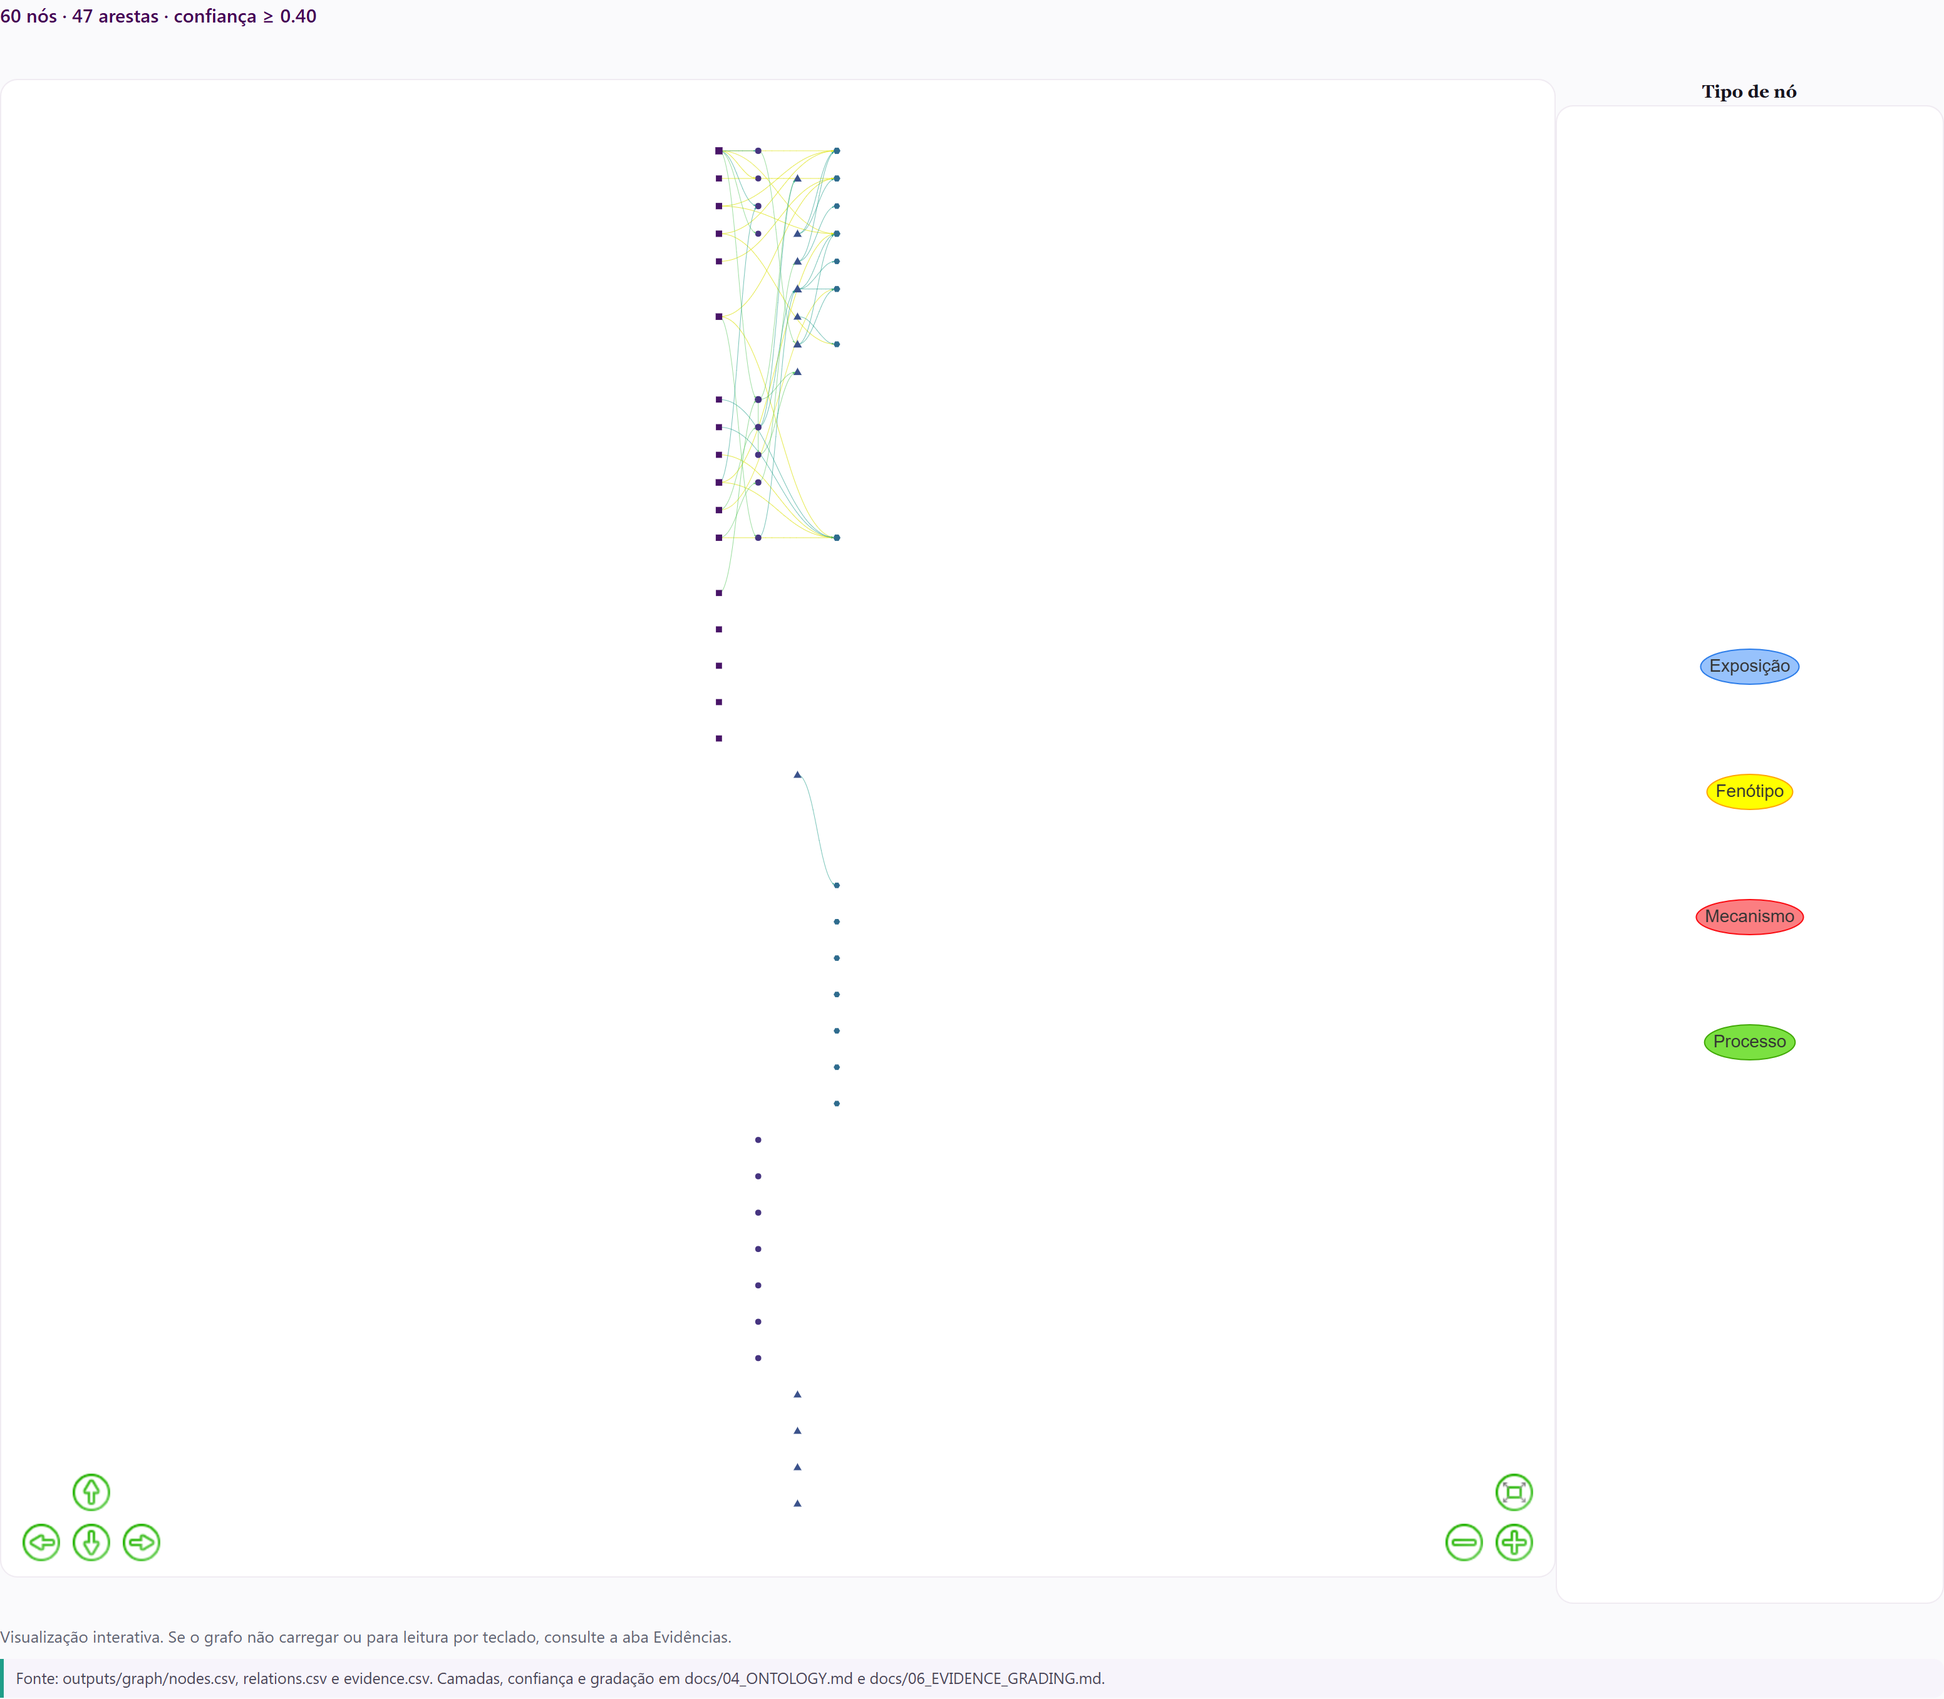
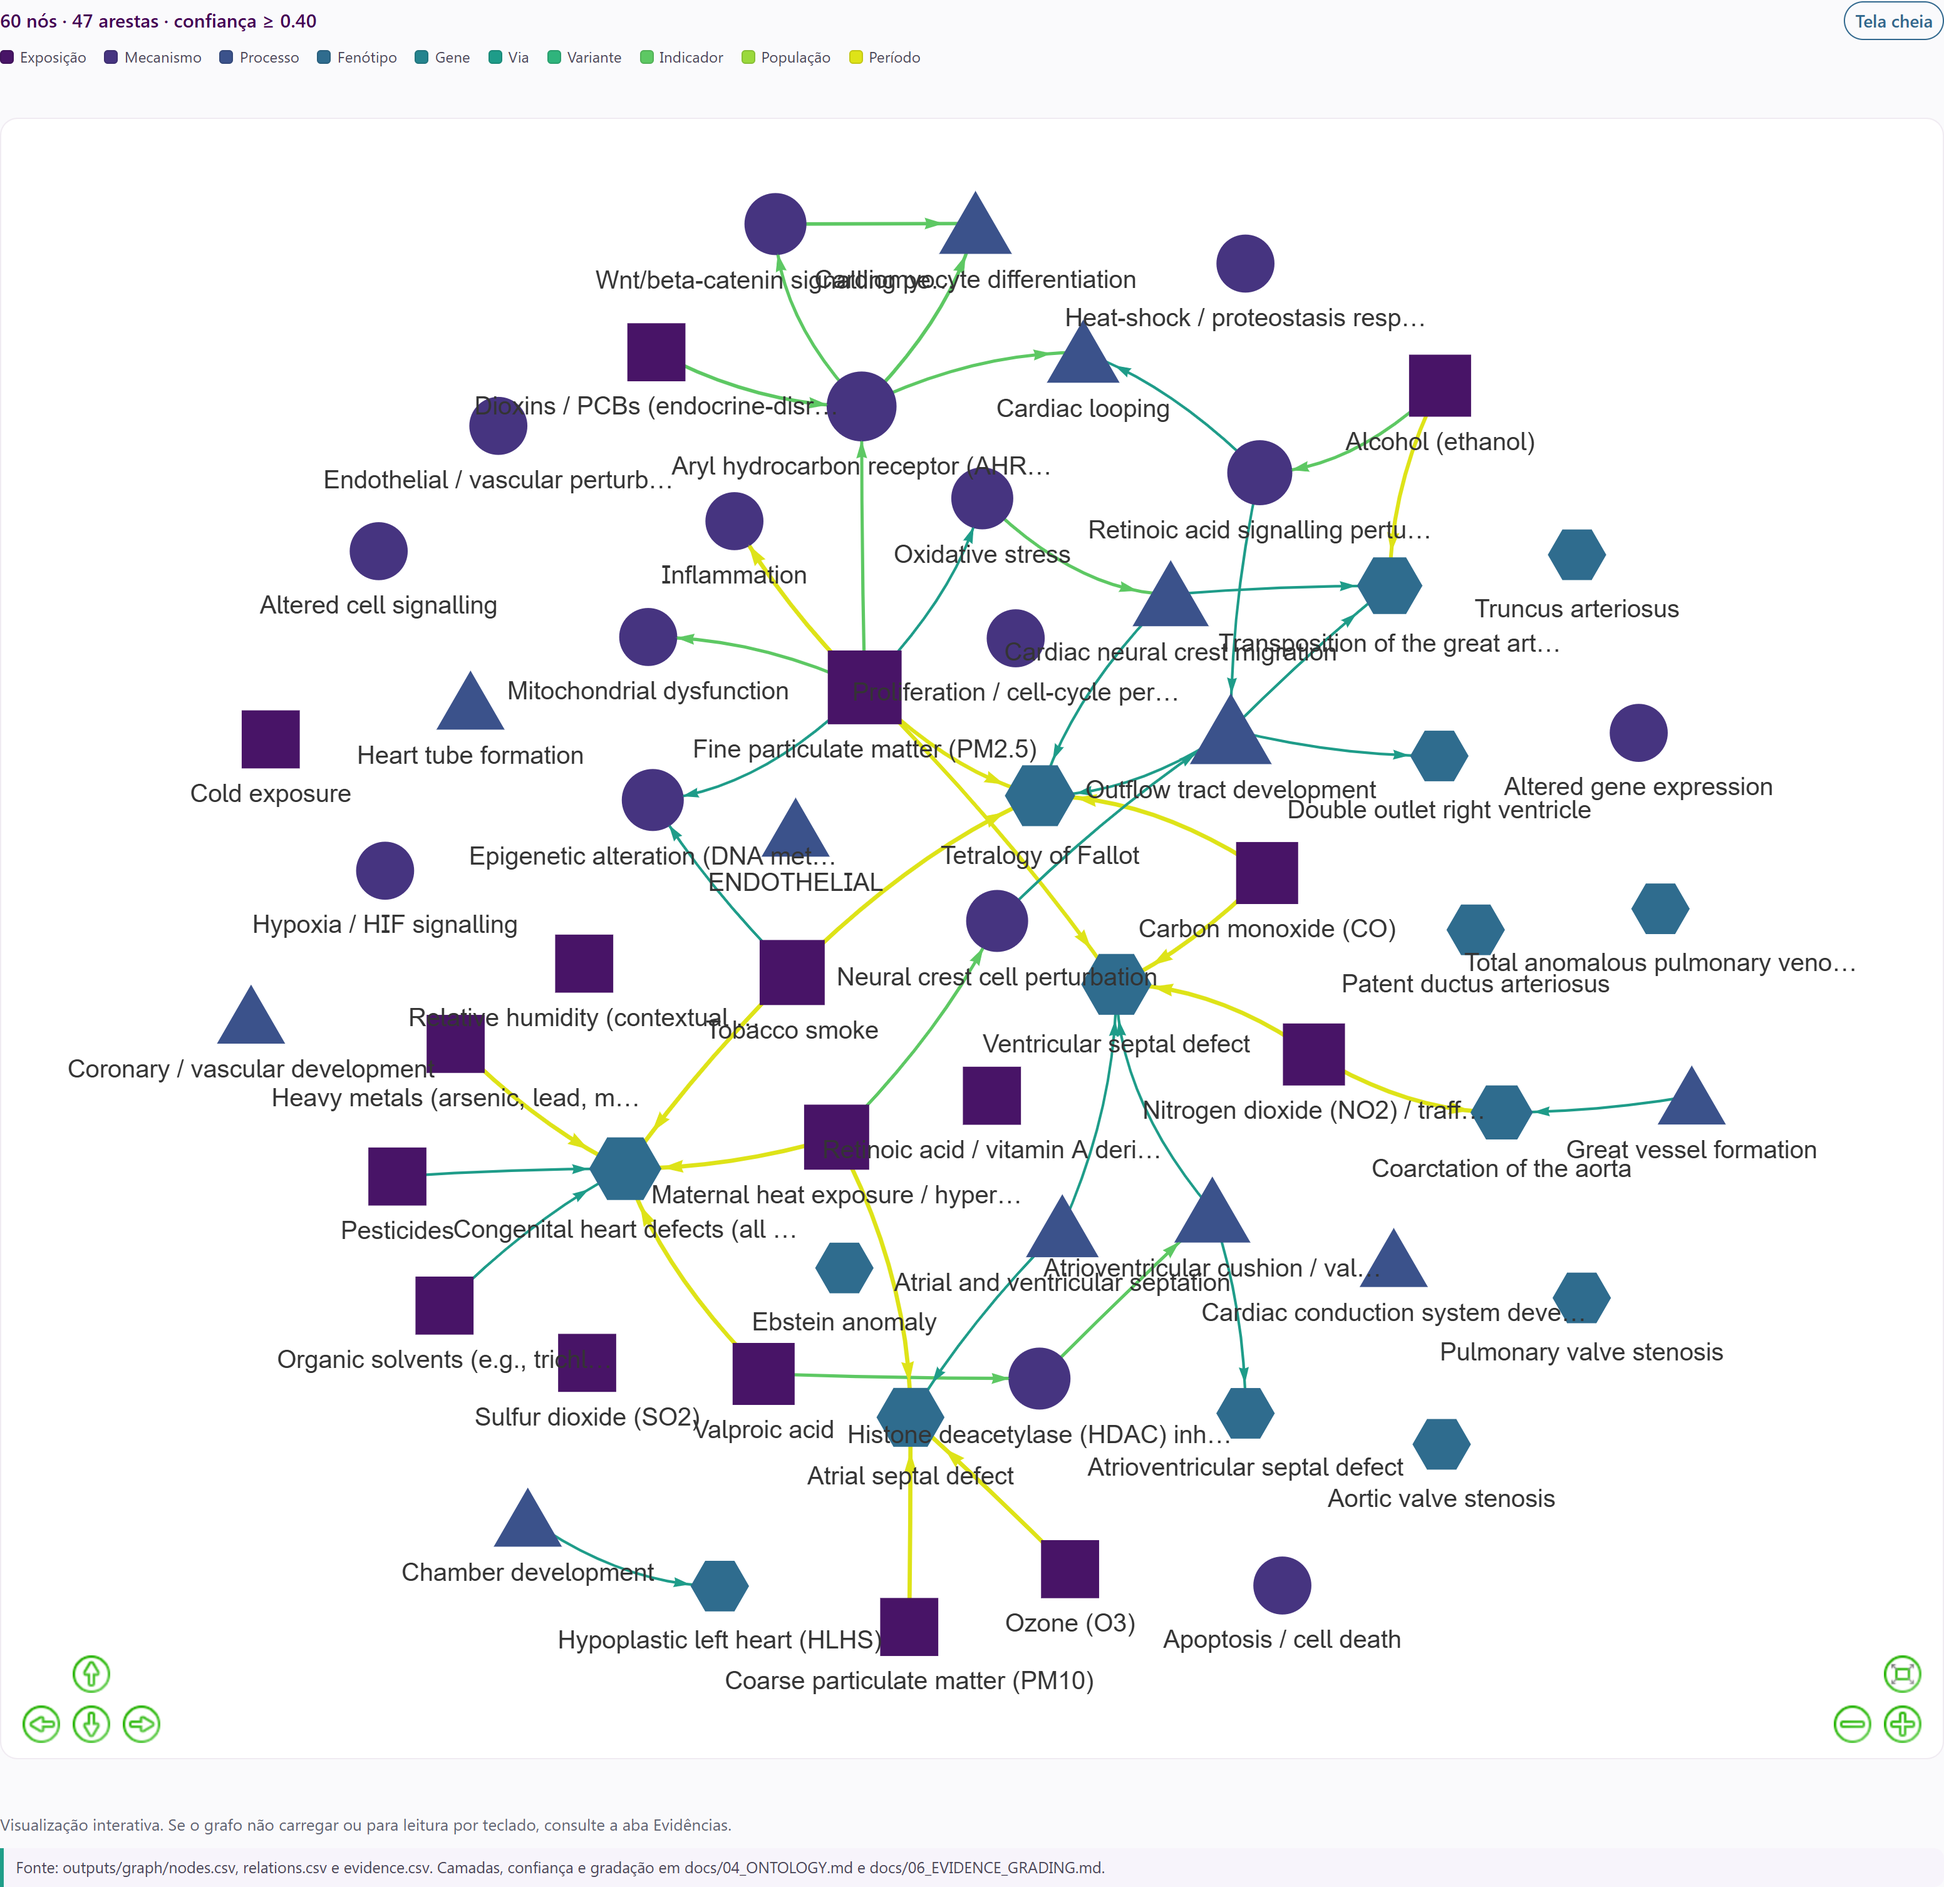
Improve graph legibility and add Letícia ORCID

diff --git a/app/www/styles.css b/app/www/styles.css
@@ -112,14 +112,42 @@ table.dataTable thead th { color: var(--v1); border-bottom: 1px solid rgba(68,1,
   font-size: clamp(.95rem, 1.6vw, 1.15rem);
 }
 .figure-head { font-weight: 600; color: var(--v0); margin: 0 0 .45rem; font-size: .95rem; }
+.graph-toolbar {
+  display: flex; align-items: center; justify-content: space-between;
+  gap: .75rem; margin-bottom: .35rem;
+}
+.graph-toolbar .figure-head { margin-bottom: 0; }
+.graph-fullscreen { white-space: nowrap; }
+.graph-legend {
+  display: flex; flex-wrap: wrap; align-items: center;
+  gap: .25rem .9rem; margin: 0 0 .55rem;
+  color: #4B4658; font-size: .76rem; line-height: 1.25;
+}
+.graph-legend-item { display: inline-flex; align-items: center; gap: .32rem; }
+.graph-legend-swatch {
+  display: inline-block; width: .68rem; height: .68rem;
+  border-radius: 3px; flex: 0 0 auto;
+  border: 1px solid rgba(0,0,0,.12);
+}
 .figure-canvas { width: 100%; min-width: 0; }
-.figure-canvas.graph-canvas { height: clamp(900px, 105vh, 1500px); }
+.figure-canvas.graph-canvas { height: clamp(1000px, 115vh, 1700px); }
 .figure-canvas.chart-canvas { height: clamp(400px, 50vh, 640px); }
 .figure-canvas.chart-canvas-wide { height: clamp(460px, 58vh, 760px); }
 
 @media (max-width: 768px) {
-  .figure-canvas.graph-canvas { height: 72vh; min-height: 520px; }
+  .figure-canvas.graph-canvas { height: 78vh; min-height: 560px; }
   .figure-canvas.chart-canvas-wide { height: 60vh; min-height: 380px; }
+  .graph-legend { font-size: .7rem; gap: .2rem .65rem; }
+}
+
+/* Fullscreen graph: the canvas gets the whole viewport and vis.js is resized. */
+.figure-block:fullscreen,
+.figure-block:-webkit-full-screen {
+  background: #FAFAFC; padding: 1rem; overflow: auto;
+}
+.figure-block:fullscreen .figure-canvas.graph-canvas,
+.figure-block:-webkit-full-screen .figure-canvas.graph-canvas {
+  height: calc(100vh - 165px) !important; min-height: 0 !important;
 }
 .figure-canvas > .plotly,
 .figure-canvas > .shiny-plot-output,

diff --git a/scripts/app/02_fair_metadata.py b/scripts/app/02_fair_metadata.py
@@ -73,7 +73,7 @@ datapackage = {
     "licenses": [{"name": "MIT", "path": "https://opensource.org/licenses/MIT", "title": "Código sob MIT; dados de terceiros mantêm suas licenças"}],
     "contributors": [
         {"title": "Ryan de Paulo Santos", "role": "author", "path": "https://orcid.org/0009-0005-6770-2001"},
-        {"title": "Letícia", "role": "author", "path": "http://lattes.cnpq.br/4004634244195808"},
+        {"title": "Letícia Maria Dias Freitas", "role": "author", "path": "https://orcid.org/0009-0009-9930-9588"},
     ],
     "keywords": ["congenital heart defects", "environmental exposure", "knowledge graph", "cardiogenesis", "Brazil", "FAIR"],
     "sources": [
@@ -104,7 +104,7 @@ dcat = {
     "modified": "2026-10-31",
     "creator": [
         {"@type": "Person", "name": "Ryan de Paulo Santos", "identifier": "https://orcid.org/0009-0005-6770-2001"},
-        {"@type": "Person", "name": "Letícia", "identifier": "http://lattes.cnpq.br/4004634244195808"},
+        {"@type": "Person", "name": "Letícia Maria Dias Freitas", "identifier": "https://orcid.org/0009-0009-9930-9588"},
     ],
     "publisher": {"@type": "Organization", "name": "GraphAmbiCardio study team"},
     "contactPoint": {"@type": "ContactPoint", "email": "ryan.paulo@gsuite.iff.edu.br"},

diff --git a/outputs/figures/site/README.md b/outputs/figures/site/README.md
@@ -1,6 +1,6 @@
 # Figuras do site GraphAmbiCardio
 
-Gerado: 2026-11-01T02:29:19Z
+Gerado: 2026-11-01T13:52:41Z
 
 Cada figura abaixo traz a fonte, o período e a nota de interpretação. Os dados usados estão em `data/`; o manifesto com SHA-256 está em `manifest.json`.
 
@@ -12,7 +12,7 @@ Cada figura abaixo traz a fonte, o período e a nota de interpretação. Os dado
 **Período:** 2010–2025  
 **Nota:** Camadas/confiança em docs/04_ONTOLOGY.md e docs/06_EVIDENCE_GRADING.md.  
 **Dados:** data/nodes.csv, data/relations.csv, data/evidence.csv  
[2 lines of base64/hex data omitted]
 
 ## SINASC — casos e taxa por 10.000 nascidos vivos
 
@@ -22,7 +22,7 @@ Cada figura abaixo traz a fonte, o período e a nota de interpretação. Os dado
 **Período:** 2010–2025  
 **Nota:** Casos = CID-10 Q20–Q28; ver docs/07_EPI_ENV_METHODS.md.  
 **Dados:** data/sinasc_annual.csv  
[2 lines of base64/hex data omitted]
 
 ## SIH/SUS — internações e óbitos
 

diff --git a/CHANGELOG.md b/CHANGELOG.md
@@ -12,7 +12,7 @@
   dados e o manifesto de figuras; autores e fontes atualizados.
 - Seção de ciência aberta no README e na aba Transparência e equipe, com links
   para código, metadados, figuras, governança e verificação automatizada.
-- Grafo interativo ampliado e exportação de figuras em viewport maior.
+- Grafo interativo ampliado: layout de força por padrão, opção hierárquica, legenda própria, botão de tela cheia, nós e rótulos maiores e exportação em viewport maior.
 
 ### Privacidade e governança
 - Remoção dos registros individuais de SINASC e SIH do versionamento e do
@@ -45,7 +45,6 @@
 - Versão 0.3.0 em `pyproject.toml`, `CITATION.cff`, `codemeta.json` e metadados.
 
 ### Pendências conhecidas
-- Nome completo de Letícia depende do currículo Lattes; o link está publicado.
 - Microdados de 2023–2024 do SINASC indisponíveis no DATASUS.
 - Desfecho com subnotificação grave; resultados de exposição são
   exploratórios e nenhum sobrevive ao FDR.

diff --git a/docs/14_APP.md b/docs/14_APP.md
@@ -54,7 +54,8 @@ Cada card com dado e cada figura exibe uma legenda de fonte, período e caminho 
 - **Nada é escondido:** toda relação exibe nível, confiança, grau, referências e limitações.
 - **Hipóteses são visualmente distintas:** arestas tracejadas e aviso explícito; não entram nas análises.
 - **Contexto local é separado:** o painel epidemiológico tem avisos sobre subnotificação, AIH ≠ pessoa e exposição de área.
-- **Acessibilidade:** navegação por teclado, contraste alto, textos em português brasileiro.
+- **Acessibilidade:** navegação por teclado, contraste alto, textos em português brasileiro e botão de tela cheia para o grafo.
+- **Legibilidade do grafo:** layout de força por padrão (com opção hierárquica), legenda HTML própria, nós e rótulos maiores; o grafo ocupa 100% da largura do card.
 - **FAIR:** downloads em CSV, metadados DCAT/Data Package e identificadores persistentes.
 
 ## 4. Publicação

diff --git a/app/data/ai_declaration.md b/app/data/ai_declaration.md
@@ -46,7 +46,7 @@ Nenhum modelo foi usado como autor ou coautor. A responsabilidade científica pe
 
 ## 5. Como citar esta declaração
 
-> Ryan de Paulo Santos; Letícia; GraphAmbiCardio study team. *Declaração de uso de inteligência artificial*. In: GraphAmbiCardio, v0.3.0, 2026. Em conformidade com a Portaria CNPq nº 2.664/2026.
+> Ryan de Paulo Santos; Letícia Maria Dias Freitas; GraphAmbiCardio study team. *Declaração de uso de inteligência artificial*. In: GraphAmbiCardio, v0.3.0, 2026. Em conformidade com a Portaria CNPq nº 2.664/2026.
 
 **Data:** 2026-10-31
 **Versão:** 0.3.0

diff --git a/docs/13_DECLARACAO_IA.md b/docs/13_DECLARACAO_IA.md
@@ -46,7 +46,7 @@ Nenhum modelo foi usado como autor ou coautor. A responsabilidade científica pe
 
 ## 5. Como citar esta declaração
 
-> Ryan de Paulo Santos; Letícia; GraphAmbiCardio study team. *Declaração de uso de inteligência artificial*. In: GraphAmbiCardio, v0.3.0, 2026. Em conformidade com a Portaria CNPq nº 2.664/2026.
+> Ryan de Paulo Santos; Letícia Maria Dias Freitas; GraphAmbiCardio study team. *Declaração de uso de inteligência artificial*. In: GraphAmbiCardio, v0.3.0, 2026. Em conformidade com a Portaria CNPq nº 2.664/2026.
 
 **Data:** 2026-10-31
 **Versão:** 0.3.0

diff --git a/README.md b/README.md
@@ -252,7 +252,7 @@ Ver `docs/09_LIMITATIONS_AND_GAPS.md`.
 ## 10. Equipe
 
 - **Ryan de Paulo Santos** — [Currículo Lattes](http://lattes.cnpq.br/7503796642571978) · [ORCID](https://orcid.org/0009-0005-6770-2001)
-- **Letícia** — [Currículo Lattes](http://lattes.cnpq.br/4004634244195808)
+- **Letícia Maria Dias Freitas** — [Currículo Lattes](http://lattes.cnpq.br/4004634244195808) · [ORCID](https://orcid.org/0009-0009-9930-9588)
 
 Nomes completos, formação e produção estão nos currículos Lattes.
 

diff --git a/reports/compliance_report.md b/reports/compliance_report.md
@@ -1,6 +1,6 @@
 # Relatório de conformidade e higiene
 
-Gerado: 2026-11-01T02:32:02Z
+Gerado: 2026-11-01T13:54:01Z
 
 **Resultado: APROVADO**
 

diff --git a/reports/schema_validation.md b/reports/schema_validation.md
@@ -1,6 +1,6 @@
 # Schema validation
 
-Generated: 2026-11-01T02:32:03Z
+Generated: 2026-11-01T13:54:05Z
 
 **Result: PASSED**
 
